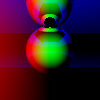
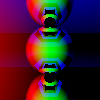
Fixed the reflection bug: The generated triangle normal in generateNormal needed to be normalized.

diff --git a/Shapes.py b/Shapes.py
@@ -29,9 +29,9 @@ class Triangle:
         return f' a = {self.a}, b = {self.b}, c = {self.c}'
 
     def generateNormal(self):
-        e1 = (self.b-self.a).normalized()
-        e2 = (self.c-self.a).normalized()
-        self.normal = Vec3.cross(e1,e2)
+        e1 = (self.b-self.a)
+        e2 = (self.c-self.a)
+        self.normal = Vec3.cross(e1,e2).normalized()
     
     @staticmethod
     def generatePlane(center:Vec3,size:tuple[float,float],orientation:str='UP'):
